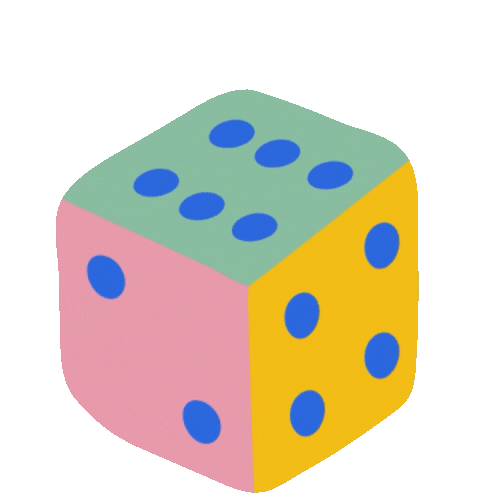
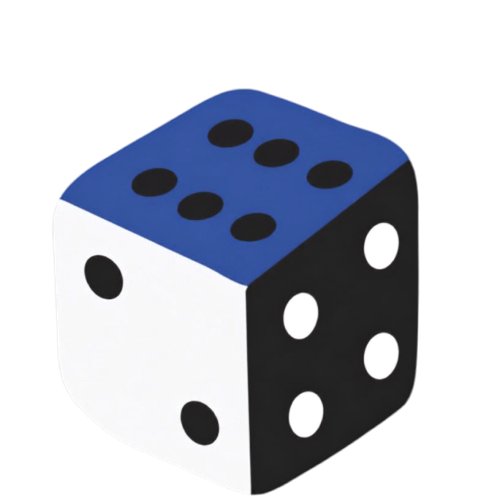
Polish sentence builder layout, update palette, clean up unused assets
- Restructure the "Build a sentence!" card: drop the outer container,
  move the input higher, show the example below it in its own card.
- Fix 3-column word grid alignment for 5+ words (was overflowing to
  2 columns due to gap math).
- Adjust ADJECTIVE/NOUN category colors.
- Remove unused template assets (react-logo variants, favicon.png,
  rolling-dice.gif, dice.png) and update the dice mascot image.

diff --git a/app/(tabs)/index.tsx b/app/(tabs)/index.tsx
@@ -221,13 +221,14 @@ export default function HomeScreen() {
   const [aiReportVisible, setAiReportVisible] = useState(false);
   const [inputMountKey, setInputMountKey] = useState(0);
   const [exampleVisible, setExampleVisible] = useState(true);
+  const [inputFocused, setInputFocused] = useState(false);
   const wasSentenceEmptyRef = useRef(true);
   const subscribeModal = useSubscribeModal();
   const signInPromptModal = useSignInPromptModal();
   const { signOut } = useAuth();
   const [prevRefreshKey, setPrevRefreshKey] = useState(refreshKey);
 
-  const use3Columns = words.length >= 9;
+  const use3Columns = words.length >= 5;
 
   // When new words appear (new roll), go back to input mode. Adjusted directly
   // during render (rather than in an effect) since it's just resetting state to
@@ -394,12 +395,9 @@ export default function HomeScreen() {
           <>
             <View style={styles.wordsContainer}>
               {words.map((item, index) => (
-                <View 
-                  key={index} 
-                  style={[
-                    styles.wordWrapper,
-                    { width: use3Columns ? '32%' : '48%' }
-                  ]}
+                <View
+                  key={index}
+                  style={{ width: use3Columns ? '30%' : '48%' }}
                 >
                   <WordCard 
                     word={item.word} 
@@ -414,99 +412,97 @@ export default function HomeScreen() {
               ))}
             </View>
 
-            <View style={[styles.builderCard, { backgroundColor: theme.cardBackground, borderColor: theme.border }]}>
-              <View style={styles.stepHeaderRow}>
-                <Icon name="create-outline" size={18} color={theme.text} />
-                <Text style={[styles.stepTitle, { color: theme.text }]}>{t('sentenceBuilderTitle')}</Text>
-              </View>
-              <Text style={[styles.stepSubtitle, { color: theme.iconInactive }]}>{t('sentenceBuilderSubtitle')}</Text>
+            <View style={styles.stepHeaderRow}>
+              <Icon name="create-outline" size={18} color={theme.text} />
+              <Text style={[styles.stepTitle, { color: theme.text }]}>{t('sentenceBuilderTitle')}</Text>
+            </View>
+            <Text style={[styles.stepSubtitle, { color: theme.iconInactive }]}>{t('sentenceBuilderSubtitle')}</Text>
 
-              {exampleVisible && (
-                <>
-                  <View style={[styles.builderDivider, { backgroundColor: theme.border }]} />
-                  <Text style={[styles.builderExampleLabel, { color: theme.iconInactive }]}>
-                    {t('sentenceBuilderExampleLabel')}
-                  </Text>
-                  <View style={styles.builderChipsRow}>
-                    {EXAMPLE_WORDS.map((ex) => (
-                      <View
-                        key={ex.word}
-                        style={[styles.builderChip, { backgroundColor: categoryColorMap[ex.category] }]}
-                      >
-                        <Text style={styles.builderChipCategory}>{t(ex.category as any)}</Text>
-                        <Text style={styles.builderChipWord}>{ex.word}</Text>
-                      </View>
-                    ))}
-                    <Icon name="chevron-forward" size={16} color={theme.iconInactive} />
-                  </View>
-                  <Text style={[styles.builderFormHint, { color: theme.iconInactive }]}>
-                    {t('sentenceBuilderFormHint')}
-                  </Text>
-                  <Text style={styles.builderExampleSentence}>
-                    {EXAMPLE_SENTENCE_PARTS.map((part, i) => (
-                      <Text key={part.text} style={{ color: categoryColorMap[part.category] }}>
-                        {part.text}{i < EXAMPLE_SENTENCE_PARTS.length - 1 ? ' ' : ''}
-                      </Text>
-                    ))}
-                  </Text>
-                </>
-              )}
-
-              <View style={[
-                styles.inputContainer,
-                {
-                  backgroundColor: theme.inputBackground,
-                  borderWidth: 1,
-                  borderColor: theme.border,
-                  marginTop: exampleVisible ? 16 : 12,
+            <View style={[
+              styles.inputContainer,
+              {
+                backgroundColor: theme.inputBackground,
+                borderWidth: inputFocused ? 2 : 1,
+                borderColor: inputFocused ? '#3468DC' : theme.border,
+                marginTop: 16,
+              }
+            ]}>
+              <TextInput
+                key={`${refreshKey}-${inputMountKey}`}
+                style={[
+                  styles.input,
+                  { color: theme.inputText },
+                  Platform.OS === 'web' && {
+                    outlineStyle: 'none',
+                    height: Math.min(webInputHeight, MAX_INPUT_HEIGHT),
+                  } as any
+                ]}
+                placeholder={t('enterSentence')}
+                placeholderTextColor={theme.iconInactive}
+                value={sentence}
+                onChangeText={handleSentenceChange}
+                onFocus={() => { setExampleVisible(false); setInputFocused(true); }}
+                onBlur={() => setInputFocused(false)}
+                onSelectionChange={Platform.OS !== 'web' ? handleSelectionChange : undefined}
+                onContentSizeChange={
+                  Platform.OS === 'web'
+                    ? (e) => setWebInputHeight(e.nativeEvent.contentSize.height)
+                    : undefined
                 }
-              ]}>
-                <TextInput
-                  key={`${refreshKey}-${inputMountKey}`}
-                  style={[
-                    styles.input,
-                    { color: theme.inputText },
-                    Platform.OS === 'web' && {
-                      outlineStyle: 'none',
-                      height: Math.min(webInputHeight, MAX_INPUT_HEIGHT),
-                    } as any
-                  ]}
-                  placeholder={t('enterSentence')}
-                  placeholderTextColor={theme.iconInactive}
-                  value={sentence}
-                  onChangeText={handleSentenceChange}
-                  onFocus={() => setExampleVisible(false)}
-                  onSelectionChange={Platform.OS !== 'web' ? handleSelectionChange : undefined}
-                  onContentSizeChange={
-                    Platform.OS === 'web'
-                      ? (e) => setWebInputHeight(e.nativeEvent.contentSize.height)
-                      : undefined
-                  }
-                  maxLength={140}
-                  multiline
-                />
-                {sentence.length > 0 && (
-                  <TouchableOpacity
-                    style={styles.sendButton}
-                    onPress={handleAICheck}
-                    disabled={aiLoading}
-                  >
-                    {aiRemaining !== 0 ? (
-                      <AIShimmerIcon size={20} loading={aiLoading} inactiveColor={theme.iconInactive} />
-                    ) : (
-                      <Icon
-                        name="paper-plane"
-                        size={20}
-                        color={aiLoading ? theme.iconInactive : theme.inputText}
-                      />
-                    )}
-                  </TouchableOpacity>
-                )}
-              </View>
+                maxLength={140}
+                multiline
+              />
               {sentence.length > 0 && (
-                <Text style={[styles.sendHint, { color: theme.iconInactive }]}>{t('sendHint')}</Text>
+                <TouchableOpacity
+                  style={styles.sendButton}
+                  onPress={handleAICheck}
+                  disabled={aiLoading}
+                >
+                  {aiRemaining !== 0 ? (
+                    <AIShimmerIcon size={20} loading={aiLoading} inactiveColor={theme.iconInactive} />
+                  ) : (
+                    <Icon
+                      name="paper-plane"
+                      size={20}
+                      color={aiLoading ? theme.iconInactive : theme.inputText}
+                    />
+                  )}
+                </TouchableOpacity>
               )}
             </View>
+            {sentence.length > 0 && (
+              <Text style={[styles.sendHint, { color: theme.iconInactive }]}>{t('sendHint')}</Text>
+            )}
+
+            {exampleVisible && (
+              <View style={[styles.builderExampleCard, { backgroundColor: theme.cardBackground, borderColor: theme.border }]}>
+                <Text style={[styles.builderExampleLabel, { color: theme.iconInactive }]}>
+                  {t('sentenceBuilderExampleLabel')}
+                </Text>
+                <View style={styles.builderChipsRow}>
+                  {EXAMPLE_WORDS.map((ex) => (
+                    <View
+                      key={ex.word}
+                      style={[styles.builderChip, { backgroundColor: categoryColorMap[ex.category] }]}
+                    >
+                      <Text style={styles.builderChipCategory}>{t(ex.category as any)}</Text>
+                      <Text style={styles.builderChipWord}>{ex.word}</Text>
+                    </View>
+                  ))}
+                  <Icon name="chevron-forward" size={16} color={theme.iconInactive} />
+                </View>
+                <Text style={[styles.builderFormHint, { color: theme.iconInactive }]}>
+                  {t('sentenceBuilderFormHint')}
+                </Text>
+                <Text style={styles.builderExampleSentence}>
+                  {EXAMPLE_SENTENCE_PARTS.map((part, i) => (
+                    <Text key={part.text} style={{ color: categoryColorMap[part.category] }}>
+                      {part.text}{i < EXAMPLE_SENTENCE_PARTS.length - 1 ? ' ' : ''}
+                    </Text>
+                  ))}
+                </Text>
+              </View>
+            )}
           </>
         )}
 
@@ -707,10 +703,8 @@ const styles = StyleSheet.create({
     marginTop: 20,
     flexDirection: 'row',
     flexWrap: 'wrap',
-    justifyContent: 'space-between'
-  },
-  wordWrapper: {
-    marginBottom: 8
+    justifyContent: 'flex-start',
+    gap: 8,
   },
   inputContainer: {
     marginTop: 20,
@@ -810,6 +804,7 @@ const styles = StyleSheet.create({
     flexDirection: 'row',
     alignItems: 'center',
     gap: 8,
+    marginTop: 20,
   },
   stepTitle: {
     fontSize: 17,
@@ -820,16 +815,11 @@ const styles = StyleSheet.create({
     lineHeight: 19,
     marginTop: 6,
   },
-  builderCard: {
-    marginTop: 20,
+  builderExampleCard: {
+    marginTop: 16,
     borderRadius: 14,
     borderWidth: 1,
     padding: 16,
-  },
-  builderDivider: {
-    height: 1,
-    marginTop: 14,
-    marginBottom: 12,
   },
   builderExampleLabel: {
     fontSize: 11,

diff --git a/constants/Colors.ts b/constants/Colors.ts
@@ -3,13 +3,13 @@ export const CategoryColors = {
     yellow: '#E7CF61',
     red: '#BD492C',
     purple: '#5A3B76',
-    lightpurple: '#AEA1B2',
+    lightpurple: '#C8A2C8',
     blue: '#DDC690',
     lightblue: '#90A9E4',
     pink: '#AD6F83',
     lightpink: '#DBABC1',
     green: '#4B7C6B',
-    lightgreen: '#A6E8BB'
+    lightgreen: '#9ED6AF'
 } as const;
 
 // Theme-specific colors
